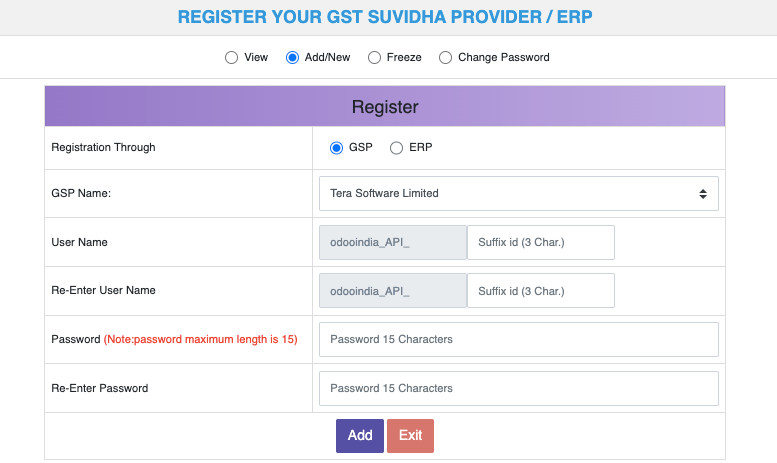
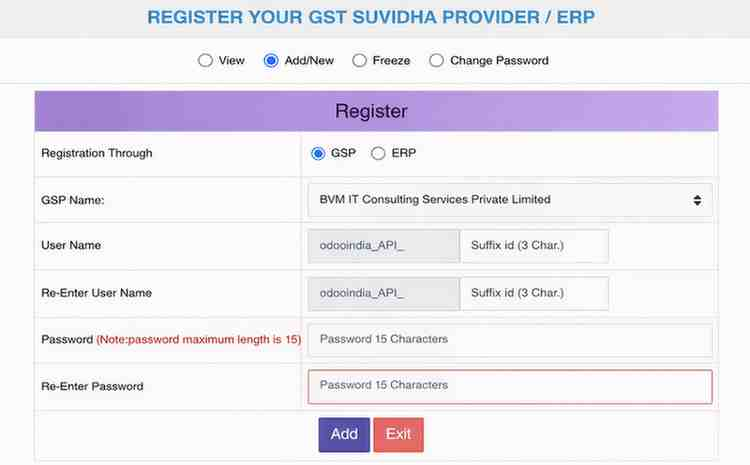
[FIX] l10n_in: update gsp provider name
Update the GSP provider name from `Tera Software Limited` to
`BVM IT Consulting Services India Private Limited` and replace the
corresponding images accordingly.

task-5379879

diff --git a/content/applications/finance/fiscal_localizations/india.rst b/content/applications/finance/fiscal_localizations/india.rst
@@ -67,7 +67,7 @@ You must register on the :abbr:`NIC (National Informatics Centre)` e-Invoice por
    User`;
 #. After that, you should receive an :abbr:`OTP (one-time password)` code on your registered mobile
    number. Enter the OTP code and click :guilabel:`Verify OTP`;
-#. Select :guilabel:`Through GSP` for the API interface, set :guilabel:`Tera Software Limited` as
+#. Select :guilabel:`Through GSP` for the API interface, set :guilabel:`BVM IT Consulting Services India Private Limited` as
    GSP, and type in a :guilabel:`Username` and :guilabel:`Password` for your API. Once it is done,
    click :guilabel:`Submit`.
 
@@ -201,13 +201,13 @@ You must register on the :abbr:`NIC (National Informatics Centre)` E-Way bill po
 #. From your dashboard, go to :menuselection:`Registration --> For GSP`;
 #. Click :guilabel:`Send OTP`. Once you have received the code on your registered mobile number,
    enter it and click :guilabel:`Verify OTP`;
-#. Check if :guilabel:`Tera Software Limited` is already on the registered GSP/ERP list. If so, use
+#. Check if :guilabel:`BVM IT Consulting Services India Private Limited` is already on the registered GSP/ERP list. If so, use
    the username and password used to log in to the NIC portal. Otherwise, follow the next steps;
 
    .. image:: india/e-waybill-gsp-list.png
       :alt: E-Way bill list of registered GSP/ERP
 
-#. Select :guilabel:`Add/New`, select :guilabel:`Tera Software Limited` as your GSP Name, create a
+#. Select :guilabel:`Add/New`, select :guilabel:`BVM IT Consulting Services India Private Limited` as your GSP Name, create a
    :guilabel:`Username` and a :guilabel:`Password` for your API, and click :guilabel:`Add`.
 
    .. image:: india/e-waybill-registration-details.png
